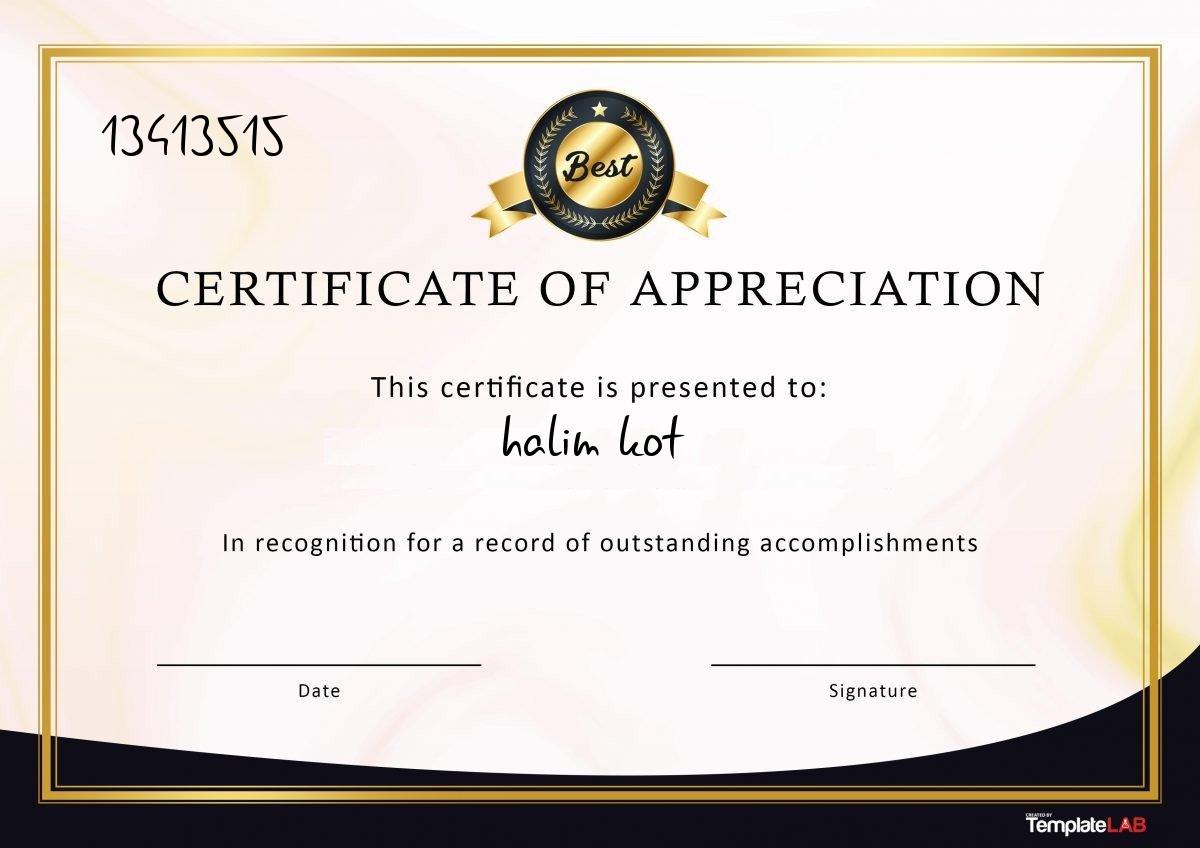
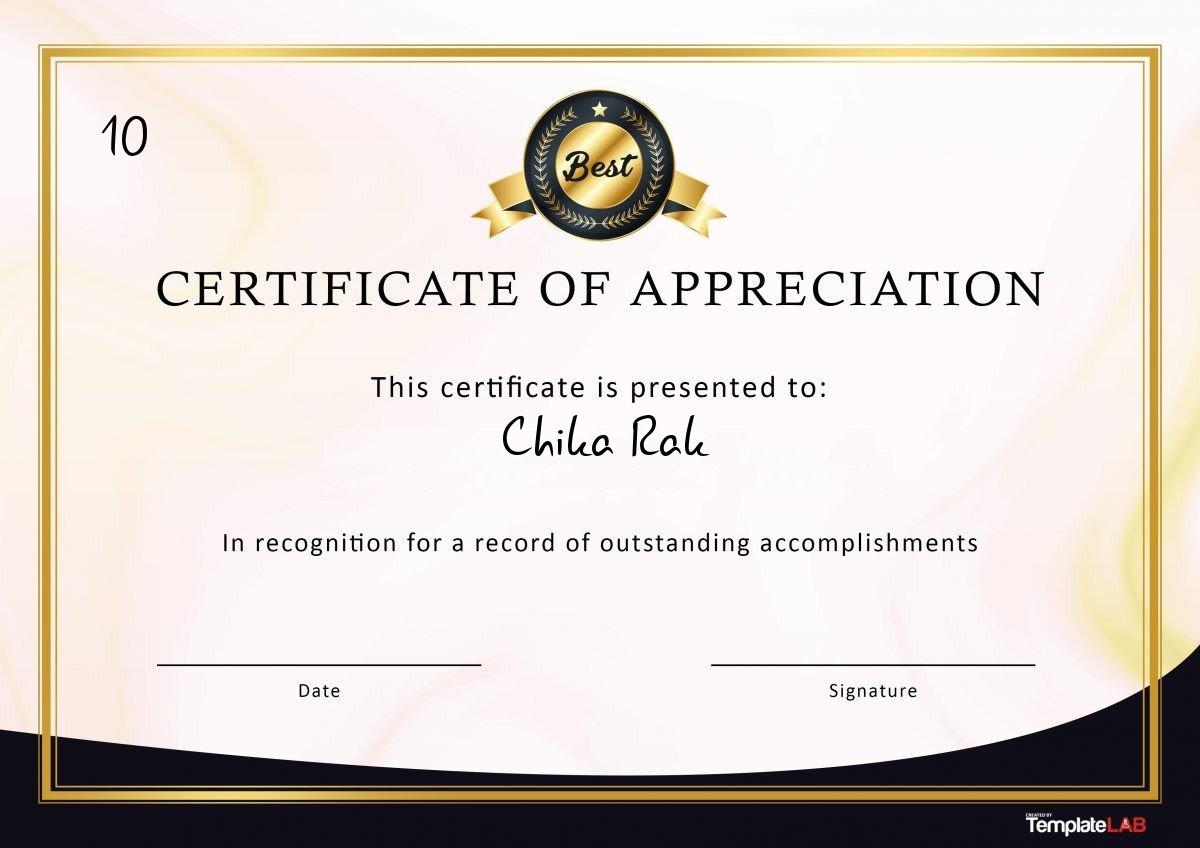
25.02.2023

Changed region(s): [[0.4008, 0.4906, 0.5858, 0.5519], [0.0925, 0.1226, 0.2467, 0.184]]

diff --git a/script.py b/script.py
@@ -1,11 +1,12 @@
 from PIL import Image, ImageFont, ImageDraw
 
 
-def jpeg_to_pdf(filename):
+def jpeg_to_pdf(filename,fio):
     image = Image.open(filename)
     im_1 = image.convert('RGB')
+    end_file ='end_cert_'+ fio + '.pdf'
     try:
-        im_1.save('end_cert.pdf')
+        im_1.save(end_file)
         with open('logs.txt','w') as k:
             k.write('adilet krasavchik')
             k.close()
@@ -15,7 +16,7 @@ def jpeg_to_pdf(filename):
             k.close()
 
 
-    return True
+    return end_file
 
 
 def edit_jpeg(filename: str, fio: str, id: str):
@@ -25,9 +26,9 @@ def edit_jpeg(filename: str, fio: str, id: str):
     ed_image.text((500, 400), fio, font=font1, fill=(0, 0, 0))  # Задать позицию и цвет шрифта RGB
     ed_image.text((100, 100), id, font=font1, fill=(0, 0, 0))  # Задать позицию и цвет шрифта RGB
     image.save('edited_cert.jpg')
-    jpeg_to_pdf('edited_cert.jpg')
-    return True
+    image.show()
+    end_file = jpeg_to_pdf('edited_cert.jpg', fio)
+    return end_file
 
-edit_jpeg('raw_cert.jpg','','13413515')
 
 

diff --git a/main.py b/main.py
@@ -1,5 +1,6 @@
 import pandas as pd
 import os
+import script
 
 
 # df = pd.read_excel('excel.xlsx')
@@ -9,6 +10,13 @@ def main(excel_filename: str):
     if not os.path.exists(excel_filename):
         print('Incorrect filename. Try again')
         return None
+    df = pd.read_excel(excel_filename)
+    for i in range(len(df['fio'])):
+        file = script.edit_jpeg('raw_cert.jpg', df['fio'][i], str(df['id'][i]))
+        os.remove(file)
+
+
+
 
 
 
